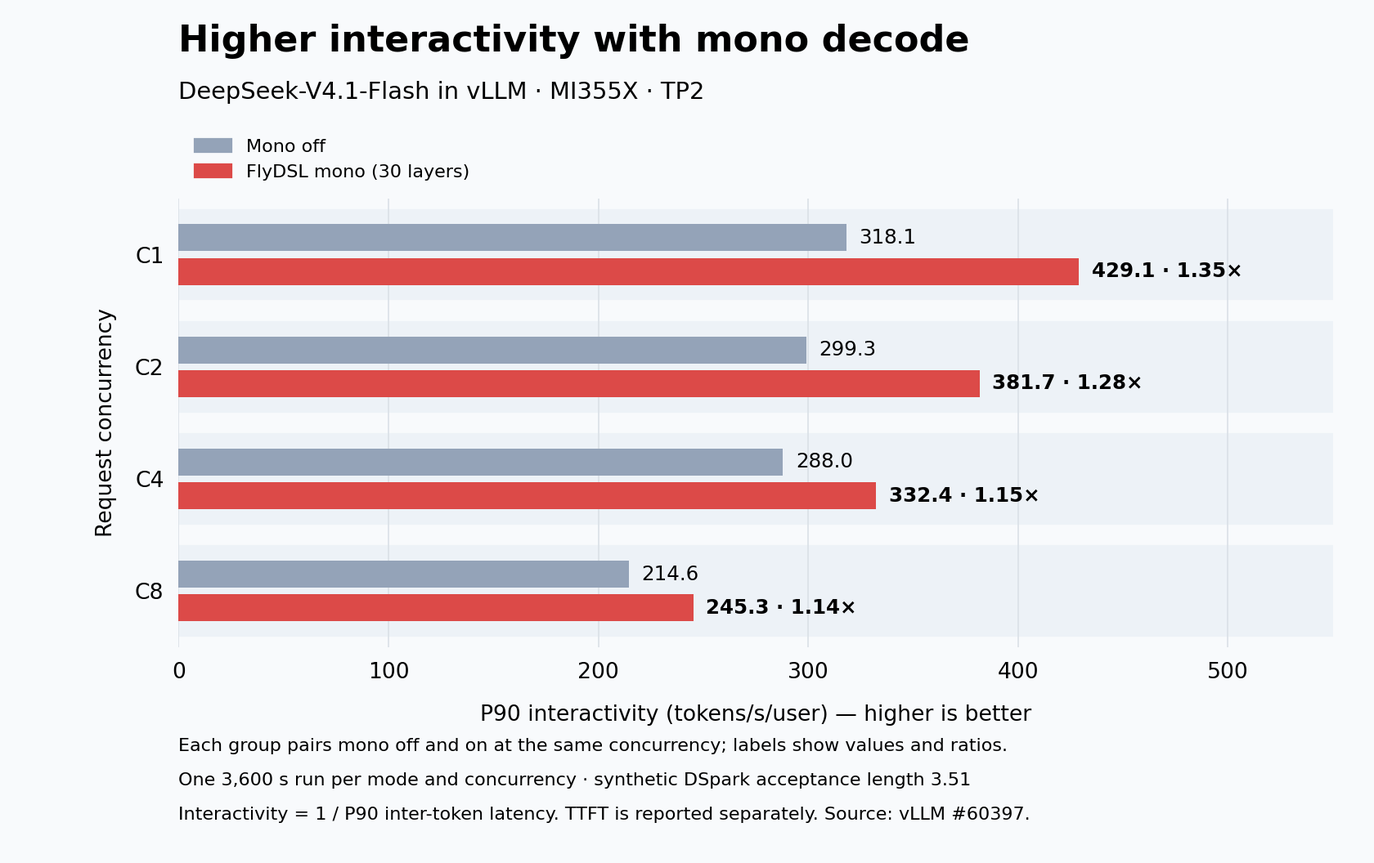
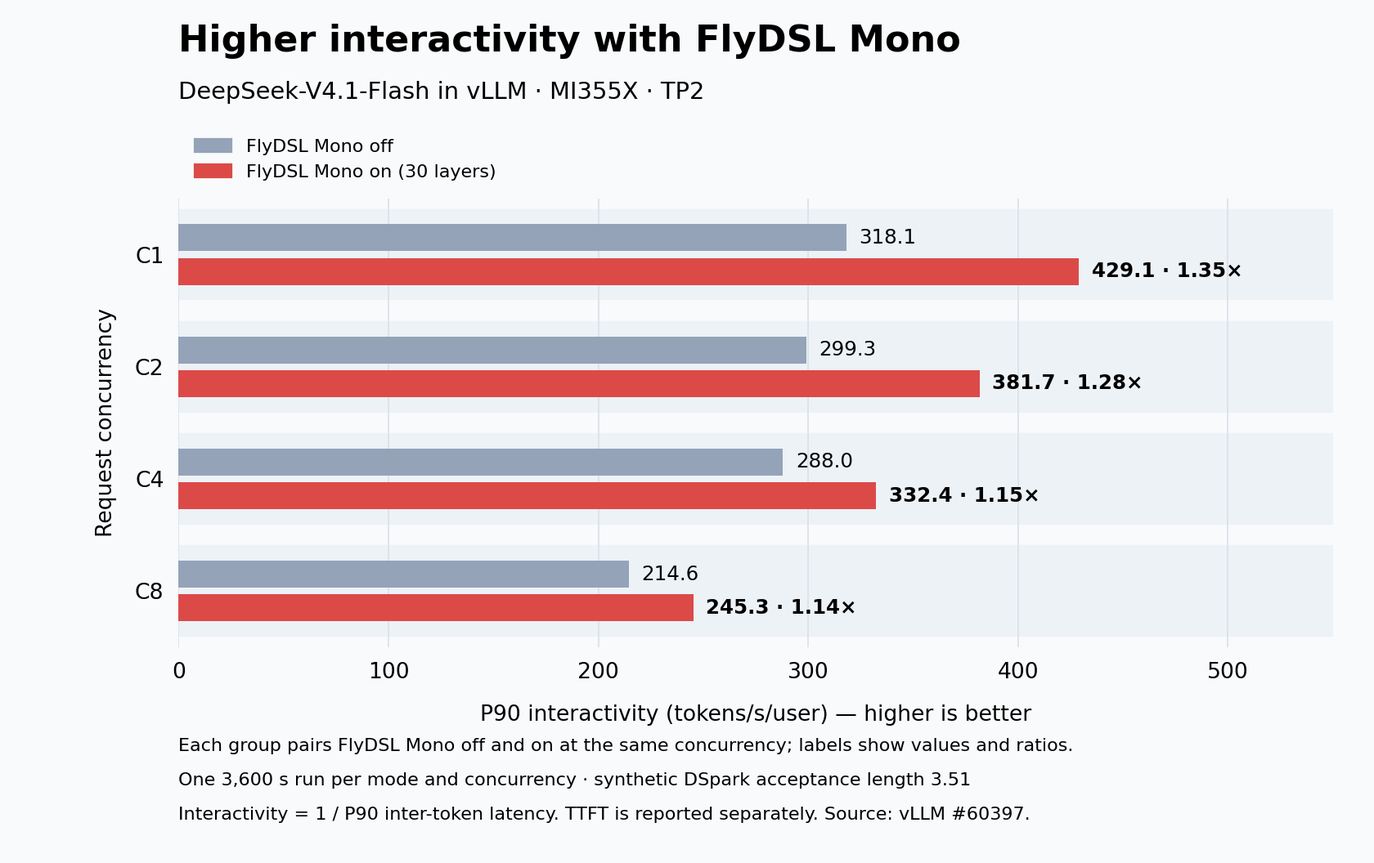
Clarify FlyDSL JIT benefits and unify mono labels

Changed region(s): [[0.2476, 0.8438, 0.7738, 0.875], [0.1857, 0.1562, 0.3714, 0.2188], [0.4952, 0.0312, 0.7119, 0.0625]]

diff --git a/blogs/software-tools-optimization/flydsl-atom-mono-kernels/data/plot-vllm-agentx.py b/blogs/software-tools-optimization/flydsl-atom-mono-kernels/data/plot-vllm-agentx.py
@@ -59,7 +59,9 @@ for y, (concurrency, (off, on)) in zip([6, 4, 2, 0], sorted(points.items())):
 ax.legend(
     handles=[
         Patch(color=color, label=label)
-        for color, label in zip(colors, ("Mono off", "FlyDSL mono (30 layers)"))
+        for color, label in zip(
+            colors, ("FlyDSL Mono off", "FlyDSL Mono on (30 layers)")
+        )
     ],
     loc="upper left",
     bbox_to_anchor=(0, 1.17),
@@ -77,13 +79,13 @@ for spine in ax.spines.values():
     spine.set_visible(False)
 ax.tick_params(length=0, pad=8)
 fig.text(
-    0.13, 0.94, "Higher interactivity with mono decode", fontsize=20, weight="bold"
+    0.13, 0.94, "Higher interactivity with FlyDSL Mono", fontsize=20, weight="bold"
 )
 fig.text(0.13, 0.885, "DeepSeek-V4.1-Flash in vLLM · MI355X · TP2", fontsize=13)
 fig.text(
     0.13,
     0.13,
-    "Each group pairs mono off and on at the same concurrency; labels show values and ratios.",
+    "Each group pairs FlyDSL Mono off and on at the same concurrency; labels show values and ratios.",
     fontsize=10,
 )
 fig.text(

diff --git a/blogs/software-tools-optimization/flydsl-atom-mono-kernels/data/plot-minimax-decode-step.py b/blogs/software-tools-optimization/flydsl-atom-mono-kernels/data/plot-minimax-decode-step.py
@@ -31,7 +31,7 @@ conditions = (
 )
 if len({tuple(row[key] for key in conditions) for row in rows}) != 1:
     raise ValueError("All batch comparisons must use the same benchmark configuration")
-labels = ["Separate kernels", "FlyDSL mono", "FlyDSL mono + indexer CP"]
+labels = ["Separate kernels", "FlyDSL Mono", "FlyDSL Mono + indexer CP"]
 colors = ["#94a3b8", "#dc4a48", "#146184"]
 centers = [8, 4, 0]
 offsets = [0.72, 0, -0.72]
@@ -45,7 +45,9 @@ plt.rcParams.update(
     }
 )
 fig, ax = plt.subplots(figsize=(10.8, 6.7))
-fig.text(0.045, 0.93, "M3 decode latency in ATOM", fontsize=23, weight="bold")
+fig.text(
+    0.045, 0.93, "FlyDSL Mono: M3 decode latency in ATOM", fontsize=23, weight="bold"
+)
 fig.text(
     0.045,
     0.872,
@@ -92,7 +94,7 @@ fig.text(
 fig.text(
     0.045,
     0.032,
-    "Source: ATOM PR #2419. CP adds a long-context indexer optimization to mono.",
+    "Source: ATOM PR #2419. CP adds a long-context indexer optimization to FlyDSL Mono.",
     fontsize=9,
     color="#586b7b",
 )

diff --git a/blogs/software-tools-optimization/flydsl-atom-mono-kernels/data/plot-mono-speedups.py b/blogs/software-tools-optimization/flydsl-atom-mono-kernels/data/plot-mono-speedups.py
@@ -54,9 +54,13 @@ if set(v41) != {1, 2, 4, 8}:
 plt.rcParams.update({"font.family": "DejaVu Sans", "text.color": "#152a3c"})
 fig, axes = plt.subplots(1, 2, figsize=(12, 5.7), sharey=True)
 colors = ["#94a3b8", "#dc4a48", "#146184"]
-labels = ["Non-mono baseline", "FlyDSL mono", "FlyDSL mono + indexer CP (M3)"]
+labels = ["FlyDSL Mono off", "FlyDSL Mono on", "FlyDSL Mono + indexer CP (M3)"]
 fig.text(
-    0.05, 0.94, "Mono gains against a matched baseline", fontsize=23, weight="bold"
+    0.05,
+    0.94,
+    "FlyDSL Mono gains against a matched baseline",
+    fontsize=23,
+    weight="bold",
 )
 fig.legend(
     handles=[Patch(color=color, label=label) for color, label in zip(colors, labels)],

diff --git a/blogs/software-tools-optimization/flydsl-atom-mono-kernels/README.md b/blogs/software-tools-optimization/flydsl-atom-mono-kernels/README.md
@@ -14,7 +14,7 @@ myst:
         "author": "Felix Li, Lingpeng Jin, Hattie Wu, Carlus Huang, Ziming Huang, Jun Chen, Yifeng Huang, Bin Ding, Xiaobing Zhang, Yi Gan, Fangzhou Ai, Wei Sun, Li Li, Doug Lehr, Richard Li, Peng Sun, Emad Barsoum"
         "property=og:locale": "en_US"
         "description lang=en": "Explore FlyDSL mono kernels in ATOM, with MiniMax-M3 and DeepSeek-V4.1-Flash interactivity results and adaptation to vLLM and SGLang."
-        "keywords": "FlyDSL, mono kernel, interactivity, AgentX, InferenceX, ATOM, vLLM, SGLang, MiniMax-M3, DeepSeek-V4.1-Flash, TileRT, ROCm, AMD Instinct MI355X, LLM inference, decode"
+        "keywords": "FlyDSL mono kernel, interactivity, AgentX, InferenceX, ATOM, vLLM, SGLang, MiniMax-M3, DeepSeek-V4.1-Flash, TileRT, ROCm, AMD Instinct MI355X, LLM inference, decode"
         "amd_category": "Developer Resources"
         "amd_asset_type": "Blog"
         "amd_blog_authors": "Felix Li, Lingpeng Jin, Hattie Wu, Carlus Huang, Ziming Huang, Jun Chen, Yifeng Huang, Bin Ding, Xiaobing Zhang, Yi Gan, Fangzhou Ai, Wei Sun, Li Li, Doug Lehr, Richard Li, Peng Sun, Emad Barsoum"
@@ -29,38 +29,39 @@ myst:
 
 **Extremely high interactivity is critical for LLM applications with strict latency requirements.** A coding agent needs to generate its next action quickly so it can call a tool and continue the task. Reducing decode latency helps keep this loop moving.
 
-[FlyDSL][1] gives developers the flexibility to write GPU programs in Python and tune them at the **grid, block, wave, thread, and instruction levels**. They control how work is assigned, how data is laid out and moved, and where synchronization is needed. This lets them tune individual operations and combine stages of a model layer into **mono kernels**, overlapping independent work to reduce waits. [ATOM](https://github.com/ROCm/ATOM) brings these kernels into serving across several model families. The approach also extends to [vLLM](https://github.com/vllm-project/vllm) and [SGLang](https://github.com/sgl-project/sglang).
+[FlyDSL][1] gives developers the flexibility to write GPU programs in Python and tune them at the **grid, block, wave, thread, and instruction levels**. Its **just-in-time (JIT) compilation** builds specialized kernels on demand, without compiling every variant in advance. Developers control work assignment, data layout, movement, and synchronization to combine stages of a model layer into **FlyDSL mono kernels** that overlap independent work and reduce waits. [ATOM](https://github.com/ROCm/ATOM) brings these kernels into serving across several model families. The approach also extends to [vLLM](https://github.com/vllm-project/vllm) and [SGLang](https://github.com/sgl-project/sglang).
 
-## Why mono kernels speed up decode
+## Why FlyDSL mono kernels speed up decode
 
 Small-batch decode runs many short kernels to process a few tokens at a time. Each launch adds overhead, and some kernels have too little parallel work to keep the GPU busy. A GPU stream executes these kernels in order, so the next stage waits for the whole kernel to finish even if part of its input is already available.
 
-Mono kernels combine related operations into fewer launches and let thread blocks work across stages. Developers can load weights alongside earlier computation and let the next stage process portions of the output as they become ready. They can also overlap computation with reductions across GPUs. Together, these choices reduce idle time and help the decode step finish sooner. [2], [3]
+FlyDSL mono kernels combine related operations into fewer launches and let thread blocks work across stages. Developers can load weights alongside earlier computation and let the next stage process portions of the output as they become ready. They can also overlap computation with reductions across GPUs. Together, these choices reduce idle time and help the decode step finish sooner. [2], [3]
 
-HIP Graph replay reduces CPU submission overhead, but the GPU still executes dependent kernels in sequence. Mono also changes how stages share data and overlap work within a launch.
+HIP Graph replay reduces CPU submission overhead, but the GPU still executes dependent kernels in sequence. FlyDSL mono also changes how stages share data and overlap work within a launch.
 
 ## What FlyDSL provides
 
-FlyDSL gives developers four kinds of control over a GPU program: [1]
+FlyDSL provides the controls and compilation support needed to build a FlyDSL mono schedule: [1]
 
+- **JIT specialization.** Compile specialized kernels on demand and reuse cached versions. Developers can adjust shapes and schedules without rebuilding a large library of precompiled kernels, making the kernels easier to tune and extend to new models.
 - **Work assignment.** Assign tasks to thread blocks and threads, and tune the mapping for different numbers of tokens per step.
 - **Layout and tiling.** Choose how data is arranged and divided into tiles for each stage.
 - **Data movement and synchronization.** Decide when to load data and how to signal that an output is ready, within a GPU or across GPUs.
 - **Low-level control.** Write and tune a wide range of operations at the grid, block, wave, and thread levels, with control down to individual GPU instructions. [1], [2]
 
-Together, these controls let developers tune both the work inside each stage and the handoffs between stages. In a mono kernel, **thread blocks** can stay active as the layer advances: a block passes on a ready result, then takes on another task. [1], [2]
+Together, these controls let developers tune both the work inside each stage and the handoffs between stages. In a FlyDSL mono kernel, **thread blocks** can stay active as the layer advances: a block passes on a ready result, then takes on another task. [1], [2]
 
-![Work inside a mono kernel: prepare weights early, pass ready output to reductions, and feed the next computation](images/mono-overlap.svg)
+![Work inside a FlyDSL mono kernel: prepare weights early, pass ready output to reductions, and feed the next computation](images/mono-overlap.svg)
 
-*Figure 1. Mono loads weights early, passes ready portions of the output forward, and overlaps reductions with computation. The timeline is schematic.*
+*Figure 1. FlyDSL mono loads weights early, passes ready portions of the output forward, and overlaps reductions with computation. The timeline is schematic.*
 
 **Developers design the fusion.** They choose the schedule and synchronization scheme, and must keep enough cooperating thread blocks resident on the GPU for the kernel to make progress. ATOM provides the serving integration: runtime buffers, coordination across tensor-parallel (TP) ranks, graph replay, correctness checks, and fallback. [2], [4]
 
 The design is inspired by **TileRT**. [5]
 
-## Bringing mono kernels to ATOM
+## Bringing FlyDSL mono kernels to ATOM
 
-ATOM supports FlyDSL mono decode for **GLM-5.2, Kimi-K3, DeepSeek-V4.1, and MiniMax-M3**. Its [shared mono components](https://github.com/ROCm/ATOM/tree/53e4fb52403707ab07b69ee909501ea3cc25ca5c/atom/mono) provide buffers, synchronization, and reductions that model-specific schedules can reuse. Kimi-K3 uses mono for eligible linear-attention (KDA) layers; its first layer and MLA layers keep the existing path. [2], [4], [6]
+ATOM supports FlyDSL mono decode for **GLM-5.2, Kimi-K3, DeepSeek-V4.1, and MiniMax-M3**. Its [shared FlyDSL mono components](https://github.com/ROCm/ATOM/tree/53e4fb52403707ab07b69ee909501ea3cc25ca5c/atom/mono) provide buffers, synchronization, and reductions that model-specific schedules can reuse. [2], [4], [6]
 
 Each model supplies the schedule that connects its own stages. ATOM connects that schedule to serving, where batching and speculative decoding can change the number of tokens in a step. The runtime must select a supported path and make the same choice on every TP rank. [4], [6]
 
@@ -68,13 +69,11 @@ M3 and V4.1 show how these shared controls support different model designs.
 
 ### MiniMax-M3: connecting attention and experts
 
-In MiniMax-M3's sparse layers, mono connects input normalization, attention, and mixture-of-experts (MoE) computation through to the final TP reduction. The fused path includes the main matrix multiplications: Q/K/V and indexer projections, the attention output projection, routing, and the shared and routed experts' up/gate and down projections. It also handles head normalization, rotary position embeddings (RoPE), and cache writes. [2]
+In MiniMax-M3's sparse layers, the FlyDSL mono kernel connects input normalization, attention, and mixture-of-experts (MoE) computation through to the final TP reduction. The fused path includes the main matrix multiplications: Q/K/V and indexer projections, the attention output projection, routing, and the shared and routed experts' up/gate and down projections. It also handles head normalization, rotary position embeddings (RoPE), and cache writes. [2]
 
-Layers that reuse selected blocks from an earlier layer skip indexer projections, scoring, and selection. The first three dense layers fuse input preparation and combine the output projection with MLP computation, while keeping the existing attention backend. [2]
+![MiniMax-M3 FlyDSL mono computation: input projections, query and cache preparation, sparse attention, output projection and reduction, routing, and expert projections and reduction](images/minimax-mono-flow.svg)
 
-![MiniMax-M3 mono computation: input projections, query and cache preparation, sparse attention, output projection and reduction, routing, and expert projections and reduction](images/minimax-mono-flow.svg)
-
-*Figure 2. Computations fused in M3's sparse-layer mono path. Arrows summarize data flow; independent tasks can overlap. [2]*
+*Figure 2. Computations fused in M3's sparse-layer FlyDSL mono path. Arrows summarize data flow; independent tasks can overlap. [2]*
 
 Three scheduling choices reduce waits: [2]
 
@@ -82,21 +81,21 @@ Three scheduling choices reduce waits: [2]
 - **Load weights early.** Blocks can load a later stage's weights while earlier stages compute. The calculation waits for its input, but the weight loads can already be in progress.
 - **Pass on ready data.** Tagged buffers signal when an output is ready. Later stages and cross-GPU reductions can start on the portions they need while other blocks produce the rest.
 
-**Decode latency.** The [published measurements][7] use MI355X, TP4, MiniMax-M3-MXFP4, a 1M-token context, and EAGLE3 with three draft tokens. **Separate** and **Mono** compare complete ATOM execution paths. The measured revision kept the first three dense layers on their original path. **Mono + CP** adds indexer context parallelism, a separate long-context optimization described in the [supporting measurements](#appendix-supporting-measurements).
+**Decode latency.** The [M3 measurements](data/minimax-decode-step.csv) use MI355X, TP4, MiniMax-M3-MXFP4, a 1M-token context, and EAGLE3 with three draft tokens. **Separate** and **FlyDSL Mono** compare complete ATOM execution paths at the measured revision. **FlyDSL Mono + CP** adds indexer context parallelism, a separate long-context optimization described in the [supporting measurements](#appendix-supporting-measurements). [7]
 
 Times are median GPU decode-step latency in milliseconds; parentheses show speedup relative to Separate.
 
-| Batch | Separate | Mono | Mono + CP |
+| Batch | Separate | FlyDSL Mono | FlyDSL Mono + CP |
 | ---: | ---: | ---: | ---: |
 | 1 | 11.47 | 7.00 (**1.64×**) | 6.26 (**1.83×**) |
 | 2 | 13.40 | 9.50 (**1.41×**) | 7.77 (**1.72×**) |
 | 4 | 18.47 | 15.88 (**1.16×**) | 12.36 (**1.49×**) |
 
-![M3 GPU decode-step latency in ATOM: separate-kernel baseline, FlyDSL mono, and mono plus indexer CP compared at each batch size of 1, 2, and 4](images/minimax-flydsl-decode-step.png)
+![M3 GPU decode-step latency in ATOM: separate-kernel baseline, FlyDSL Mono, and FlyDSL Mono plus indexer CP compared at each batch size of 1, 2, and 4](images/minimax-flydsl-decode-step.png)
 
-*Figure 3. Each batch size has its own separate-kernel baseline. Labels show latency and speedup against that baseline. Indexer CP is an additional long-context optimization. [7]* [Data](data/minimax-decode-step.csv) · [Plotting script](data/plot-minimax-decode-step.py)
+*Figure 3. Each batch size has its own separate-kernel baseline. Labels show latency and speedup against that baseline. Indexer CP is an additional long-context optimization. [7]*
 
-**Mono alone delivers a 1.64× speedup at batch one; adding CP brings the speedup to 1.83×.** Gains shrink as batch size grows. A larger batch gives separate kernels more parallel work and spreads launch overhead across more tokens, which can reduce mono's relative advantage.
+**FlyDSL Mono alone delivers a 1.64× speedup at batch one; adding CP brings the speedup to 1.83×.** Gains shrink as batch size grows. A larger batch gives separate kernels more parallel work and spreads launch overhead across more tokens, which can reduce the relative advantage of FlyDSL Mono.
 
 These measurements cover GPU decode steps; they do not measure per-user token rate or isolate the contribution of each scheduling choice. A [launch example](data/run-minimax-m3-mono.sh) starts an ATOM server using the measured revision's recipe.
 
@@ -104,22 +103,22 @@ These measurements cover GPU decode steps; they do not measure per-user token ra
 
 DeepSeek-V4.1 applies FlyDSL mono kernels to attention preparation and the path from attention to MoE: [4]
 
-- **Prepare attention inputs.** Combine residual updates and normalization with query, KV, and indexer projections, RoPE, and window-cache writes. Indexer inputs are prepared only for layers that select keys.
+- **Prepare attention inputs.** Combine residual updates and normalization with query and KV projections, RoPE, and window-cache writes, adding indexer projections where needed.
 - **Connect attention to MoE.** Score and select keys where needed, compute attention and output projections, then reduce the results across TP ranks and normalize the input to MoE. Routing, shared and routed expert projections, and the expert reduction are fused into this path.
 
 The schedule makes each normalized row available to the router and expert stages as it becomes ready. Output-projection weight loads start before the kernel waits for attention output, allowing memory access to overlap earlier computation. For eligible steps, GPUs also divide token rows among themselves for some stages, reducing work repeated on every GPU. FlyDSL gives developers control over these choices: when to load, when to wait, and how to assign work. [4]
 
-![DeepSeek-V4.1 mono computations: prepare attention inputs, select keys where needed, compute attention, project and reduce its output, then route tokens and compute and reduce expert outputs](images/atom-deepseek-v41-mono-flow.svg)
+![DeepSeek-V4.1 FlyDSL mono computations: prepare attention inputs, select keys where needed, compute attention, project and reduce its output, then route tokens and compute and reduce expert outputs](images/atom-deepseek-v41-mono-flow.svg)
 
-*Figure 4. Data flow through DeepSeek-V4.1's mono computations. Arrows show dependencies between the fused computations. Model-specific operations outside mono and runtime setup are omitted. [4]*
+*Figure 4. Data flow through DeepSeek-V4.1's FlyDSL mono computations. Arrows show dependencies between the fused computations. [4]*
 
-The DSpark draft runner reuses these kernel implementations with window-only attention and its own expert configuration. [4]
+The DSpark draft runner also reuses these FlyDSL kernels, adapting their attention and expert settings for draft computation. [4]
 
 ### Interactivity results in ATOM
 
 The [InferenceX AgentX](https://inferencex.semianalysis.com/agentx) benchmark replays multi-turn, long-context agent sessions. It collects inter-token latency for each request and reports **P90 interactivity as 1 / P90 inter-token latency**, with latency in seconds. Higher values mean shorter delays between tokens at the slower end of the request distribution. [8]
 
-The [published ATOM results](data/atom-agentx-source.json) below use **MI355X** with FlyDSL mono decode enabled at concurrency one (C1). **The source provides no matched mono-off baseline**, so these figures describe complete serving configurations rather than the gain from enabling mono.
+The [published ATOM results](data/atom-agentx-source.json) below use **MI355X** with FlyDSL mono decode enabled at concurrency one (C1). **The source provides no matched baseline with FlyDSL Mono off**, so these figures describe complete serving configurations rather than the gain from enabling FlyDSL Mono.
 
 - **MiniMax-M3-MXFP4, TP4:** EAGLE3 with three draft tokens and synthetic acceptance length 2.78, FP8 KV and index caches.
 - **DeepSeek-V4.1-Flash, TP2 and TP4:** DSpark with five draft tokens and synthetic acceptance length 3.51, BF16 KV and an FP4 index cache.
@@ -134,35 +133,33 @@ The table reports P90 interactivity in tokens/s/user, **output throughput** in g
 | V4.1 / TP2 | **505.1** | 86.5 | 1.20 |
 | V4.1 / TP4 | **641.0** | 45.5 | 1.20 |
 
-For M3 at C1, input + output throughput is **6,580 tokens/s/GPU**, but generated output contributes only **42.5**. The larger total is dominated by input tokens, including cached input, so it does not represent generation speed. The M3 GPU-step comparison above measures the effect of enabling mono; serving results also reflect scheduling, caching, and speculative decoding. TTFT and tool waits also affect user responsiveness.
+For M3 at C1, input + output throughput is **6,580 tokens/s/GPU**, but generated output contributes only **42.5**. The larger total is dominated by input tokens, including cached input, so it does not represent generation speed. The M3 GPU-step comparison above measures the effect of enabling FlyDSL Mono; serving results also reflect scheduling, caching, and speculative decoding. TTFT and tool waits also affect user responsiveness.
 
 ## Extending to vLLM and SGLang
 
-**vLLM** takes inspiration from ATOM's mono work and adapts the FlyDSL kernels to its KV-cache layout and runtime. For DeepSeek-V4.1-Flash on MI355X, a published same-node mono-off/on comparison uses **TP2** with mono enabled on 30 standard layers. At **concurrency one**, P90 interactivity rises from **318.1 to 429.1 tokens/s/user (1.35×)**. Each concurrency setting has **one 3,600-second run per mode**, using DSpark with five draft tokens and synthetic acceptance length 3.51. [3]
+**vLLM** integrates FlyDSL mono kernels into its decode path, adapting them to its KV-cache layout and runtime. For DeepSeek-V4.1-Flash on MI355X, a published same-node **FlyDSL Mono off/on** comparison uses **TP2**, with fusion enabled on 30 standard layers in the on run. At **concurrency one**, P90 interactivity rises from **318.1 to 429.1 tokens/s/user (1.35×)**. Each concurrency setting has **one 3,600-second run per mode**, using DSpark with five draft tokens and synthetic acceptance length 3.51. [3]
 
-![DeepSeek-V4.1-Flash in vLLM on MI355X TP2: paired mono-off/on bars show 1.35, 1.28, 1.15, and 1.14 times P90 interactivity at concurrency 1, 2, 4, and 8](images/vllm-dsv41-interactivity.png)
+![DeepSeek-V4.1-Flash in vLLM on MI355X TP2: paired FlyDSL Mono off/on bars show 1.35, 1.28, 1.15, and 1.14 times P90 interactivity at concurrency 1, 2, 4, and 8](images/vllm-dsv41-interactivity.png)
 
-*Figure 5. Each group compares mono off and on at the same request concurrency. Longer bars mean faster token generation. Labels show the measured values and their ratio. [3]*
+*Figure 5. Each group compares FlyDSL Mono off and on at the same request concurrency. Longer bars mean faster token generation. Labels show the measured values and their ratio. [3]*
 
 TTFT is higher at C1/C8 and lower at C2/C4 in these runs. More runs would be needed to establish a repeatable change; the [supporting measurements](#vllm-evaluation-details) include all four pairs. As with the ATOM benchmarks, acceptance is set synthetically, so these runs do not measure the full user experience under natural acceptance.
 
-**SGLang's [mono kernel framework RFC][9]** describes how to extend mono decode through a shared framework and GPU-vendor plugins, including AMD's `sgl-amd-mono`. The plugins supply model kernels, while SGLang handles step selection and runtime integration.
+**SGLang's [framework RFC][9]** provides an extension point for FlyDSL mono kernels through GPU-vendor plugins, including the [AMD plugin](https://github.com/sgl-project/sgl-amd-mono). The plugins supply model kernels, while SGLang handles step selection and runtime integration.
 
 ## Scope and costs
 
 Fusion can increase register and shared-memory use, leaving room for fewer thread blocks to run at once. Developers must account for that limit when choosing which operations to combine. [2]
 
-**Where gains shrink.** M3's GPU-step speedup falls from 1.64× at batch one to 1.16× at batch four; vLLM's interactivity gain falls from 1.35× at C1 to 1.14× at C8. A separate vLLM FFN-only layer test is already near parity at TP2/C8: **345 → 342 µs (1.01×)** at 48 token rows. The available full-model measurements do not show where mono and the separate path reach parity. [3], [7]
+**Where gains shrink.** M3's GPU-step speedup falls from 1.64× at batch one to 1.16× at batch four; vLLM's interactivity gain falls from 1.35× at C1 to 1.14× at C8. A separate vLLM FFN-only layer test is already near parity at TP2/C8: **345 → 342 µs (1.01×)** at 48 token rows. The available full-model measurements do not show where FlyDSL Mono and the separate path reach parity. [3], [7]
 
-**When mono takes over.** The runtime selects mono based on the model, GPU, TP size, layouts, and step metadata. In the cited revisions, M3 supports up to **16 token rows** per step; ATOM and vLLM V4.1 support up to **48**. Speculative tokens and graph padding count toward these limits: one request with five drafts can use six rows before padding. In a supported deployment, larger or unsupported steps use the standard path, with every TP rank making the same choice. These row limits define supported shapes; they do not identify where mono stops improving performance. [2], [3], [4]
-
-The vLLM path also requires decode-only steps, supported cache metadata, and either eager execution or full graph replay. Explicitly enabling mono on unsupported hardware or backends raises a configuration error. [3]
+**When FlyDSL Mono takes over.** The runtime selects FlyDSL Mono based on the model, GPU, TP size, layouts, and step metadata. In the cited revisions, M3 supports up to **16 token rows** per step; ATOM and vLLM V4.1 support up to **48**. Speculative tokens and graph padding count toward these limits: one request with five drafts can use six rows before padding. In a supported deployment, larger or unsupported steps use the standard path, with every TP rank making the same choice. These row limits define supported shapes; they do not identify where FlyDSL Mono stops improving performance. [2], [3], [4]
 
 **Development cost.** Each model needs a schedule that developers must validate and maintain as the model changes. Correctness checks and task evaluations are part of that work. [3]
 
-## Build a mono path for your model
+## Build a FlyDSL mono path for your model
 
-Start with the [FlyDSL mono components](https://github.com/ROCm/FlyDSL/tree/31f389b3838d83f82e5bd9ccf646076243e24e18/kernels/monokernel) and [ATOM's shared mono framework](https://github.com/ROCm/ATOM/tree/53e4fb52403707ab07b69ee909501ea3cc25ca5c/atom/mono):
+Start with the [FlyDSL mono components](https://github.com/ROCm/FlyDSL/tree/31f389b3838d83f82e5bd9ccf646076243e24e18/kernels/monokernel) and [ATOM's shared FlyDSL mono framework](https://github.com/ROCm/ATOM/tree/53e4fb52403707ab07b69ee909501ea3cc25ca5c/atom/mono):
 
 1. **Find the waits.** Profile the separate path at your serving batch sizes. Identify where stages wait for data or communication.
 2. **Write the schedule in FlyDSL.** Use reusable compute and communication components to connect stages. Assign independent tasks to thread blocks so their work can overlap.
@@ -170,44 +167,44 @@ Start with the [FlyDSL mono components](https://github.com/ROCm/FlyDSL/tree/31f3
 
 ## Appendix: Supporting measurements
 
-**Indexer context parallelism in M3.** ATOM splits index scoring across four TP ranks, then exchanges candidates to make the final selection. This is the additional optimization behind the Mono + CP results. [2], [7]
+**Indexer context parallelism in M3.** ATOM splits index scoring across four TP ranks, then exchanges candidates to make the final selection. This is the additional optimization behind the FlyDSL Mono + CP results. [2], [7]
 
-At 1M context, TP4, 16 token rows, and four query rows per request, the [layer measurement](data/minimax-indexer-cp-layer.csv) records **222.2 → 156.7 µs (1.42×)** with CP. Both runs use mono and graph replay. [7]
+At 1M context, TP4, 16 token rows, and four query rows per request, the [layer measurement](data/minimax-indexer-cp-layer.csv) records **222.2 → 156.7 µs (1.42×)** with CP. Both runs use FlyDSL Mono and graph replay. [7]
 
 ![MiniMax-M3 indexer context parallelism across four TP ranks](images/minimax-indexer-cp.svg)
 
 *Figure 6. Each rank scores part of the cache, then exchanges its best candidates so the owning rank can make the final selection.*
 
-**Direct mono comparisons.** Figure 7 summarizes the paired results from Figures 3 and 5. Each group includes its own non-mono baseline, normalized to 1.00×. M3 uses ATOM GPU-step latency; V4.1 uses vLLM interactivity. [3], [7]
+**Direct FlyDSL Mono comparisons.** Figure 7 summarizes the paired results from Figures 3 and 5. Each group includes its own FlyDSL Mono off baseline, normalized to 1.00×. M3 uses ATOM GPU-step latency; V4.1 uses vLLM interactivity. [3], [7]
 
-![Direct mono comparisons: M3 in ATOM at batch 1, 2, and 4, and V4.1 in vLLM at concurrency 1, 2, 4, and 8; each group includes a non-mono baseline at 1.00 times](images/mono-speedup-comparison.png)
+![Direct FlyDSL Mono comparisons: M3 in ATOM at batch 1, 2, and 4, and V4.1 in vLLM at concurrency 1, 2, 4, and 8; each group includes a FlyDSL Mono off baseline at 1.00 times](images/mono-speedup-comparison.png)
 
-*Figure 7. Baseline and mono are paired within each batch or concurrency group. The left panel divides separate-kernel latency by mono latency; the right divides mono interactivity by mono-off interactivity. The raw values appear in Figures 3 and 5. [3], [7]* [Plotting script](data/plot-mono-speedups.py)
+*Figure 7. Each group pairs FlyDSL Mono off and on. Ratios are latency (off/on) for M3 and interactivity (on/off) for V4.1. The raw values appear in Figures 3 and 5. [3], [7]*
 
 ### vLLM evaluation details
 
-**TTFT.** The table below gives P90 TTFT in seconds for the TP2 mono-off/on runs in Figure 5. Each mode has one 3,600-second run per concurrency; repeated measurements would be needed to establish a consistent effect. [3]
+**TTFT.** The table below gives P90 TTFT in seconds for the TP2 FlyDSL Mono off/on runs in Figure 5. Each mode has one 3,600-second run per concurrency; repeated measurements would be needed to establish a consistent effect. [3]
 
-| Concurrency | Mono off | Mono on |
+| Concurrency | FlyDSL Mono off | FlyDSL Mono on |
 | ---: | ---: | ---: |
 | 1 | 1.18 | 1.28 |
 | 2 | 1.10 | 1.08 |
 | 4 | 1.27 | 1.26 |
 | 8 | 1.01 | 1.08 |
 
-**Additional vLLM measurements.** The [comparison CSV](data/mono-benefits.csv) records the TP2 mono-off/on results at C1, C2, C4, and C8, including TTFT; the [Figure 5 script](data/plot-vllm-agentx.py) reads the interactivity values directly. The CSV retains input + output totals, which include cached input and are not output throughput. [3]
+**Additional vLLM measurements.** The [comparison CSV](data/mono-benefits.csv) records the TP2 FlyDSL Mono off/on results at C1, C2, C4, and C8, including TTFT. The CSV retains input + output totals, which include cached input and are not output throughput. [3]
 
 ## References
 
 1. [FlyDSL language and compiler](https://github.com/ROCm/FlyDSL).
-2. [ATOM's M3 mono implementation](https://github.com/ROCm/ATOM/tree/53e4fb52403707ab07b69ee909501ea3cc25ca5c/atom/models/minimax_m3/mono).
-3. [vLLM: DeepSeek-V4.1-Flash mono decode and AgentX results](https://github.com/vllm-project/vllm/pull/60397).
-4. [ATOM's DeepSeek-V4.1 mono implementation](https://github.com/ROCm/ATOM/tree/53e4fb52403707ab07b69ee909501ea3cc25ca5c/atom/models/deepseek_v41/mono).
+2. [ATOM's M3 FlyDSL mono implementation](https://github.com/ROCm/ATOM/tree/53e4fb52403707ab07b69ee909501ea3cc25ca5c/atom/models/minimax_m3/mono).
+3. [vLLM: DeepSeek-V4.1-Flash FlyDSL mono decode and AgentX results](https://github.com/vllm-project/vllm/pull/60397).
+4. [ATOM's DeepSeek-V4.1 FlyDSL mono implementation](https://github.com/ROCm/ATOM/tree/53e4fb52403707ab07b69ee909501ea3cc25ca5c/atom/models/deepseek_v41/mono).
 5. [TileRT](https://github.com/tile-ai/TileRT).
-6. [ATOM: GLM-5.2 and Kimi-K3 mono decode](https://github.com/ROCm/ATOM/pull/2535).
-7. [ATOM: MiniMax-M3 mono decode and measurements](https://github.com/ROCm/ATOM/pull/2419).
+6. [ATOM: GLM-5.2 and Kimi-K3 FlyDSL mono decode](https://github.com/ROCm/ATOM/pull/2535).
+7. [ATOM: MiniMax-M3 FlyDSL mono decode and measurements](https://github.com/ROCm/ATOM/pull/2419).
 8. [InferenceX AgentX metric definitions](https://github.com/SemiAnalysisAI/InferenceX/blob/8b25006fa0b23c7e157438996a3d2a90ff5e8cd2/inferencex-e2e/infx/results/agentic/request_metrics.py).
-9. [SGLang: mono kernel framework RFC](https://github.com/sgl-project/sglang/issues/43949).
+9. [SGLang: GPU kernel framework RFC](https://github.com/sgl-project/sglang/issues/43949).
 
 [1]: https://github.com/ROCm/FlyDSL
 [2]: https://github.com/ROCm/ATOM/tree/53e4fb52403707ab07b69ee909501ea3cc25ca5c/atom/models/minimax_m3/mono
